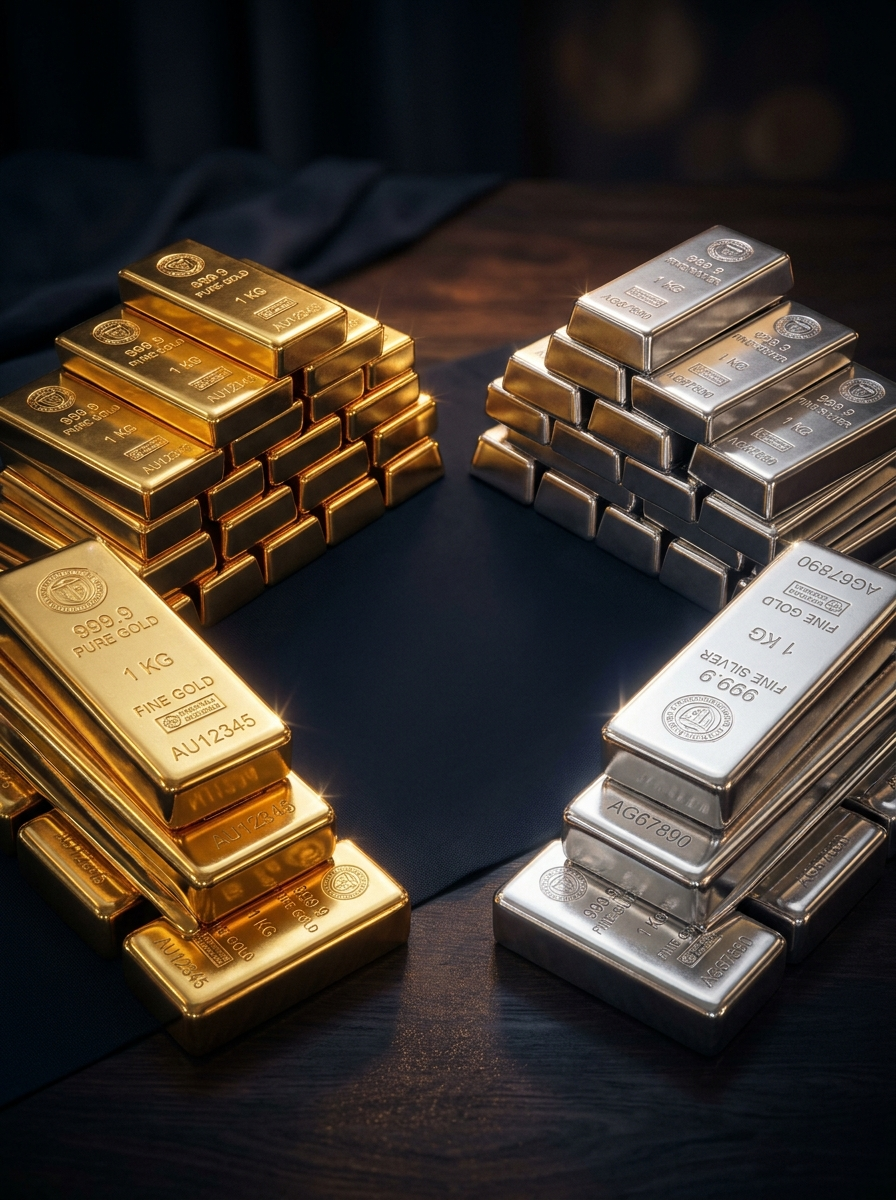
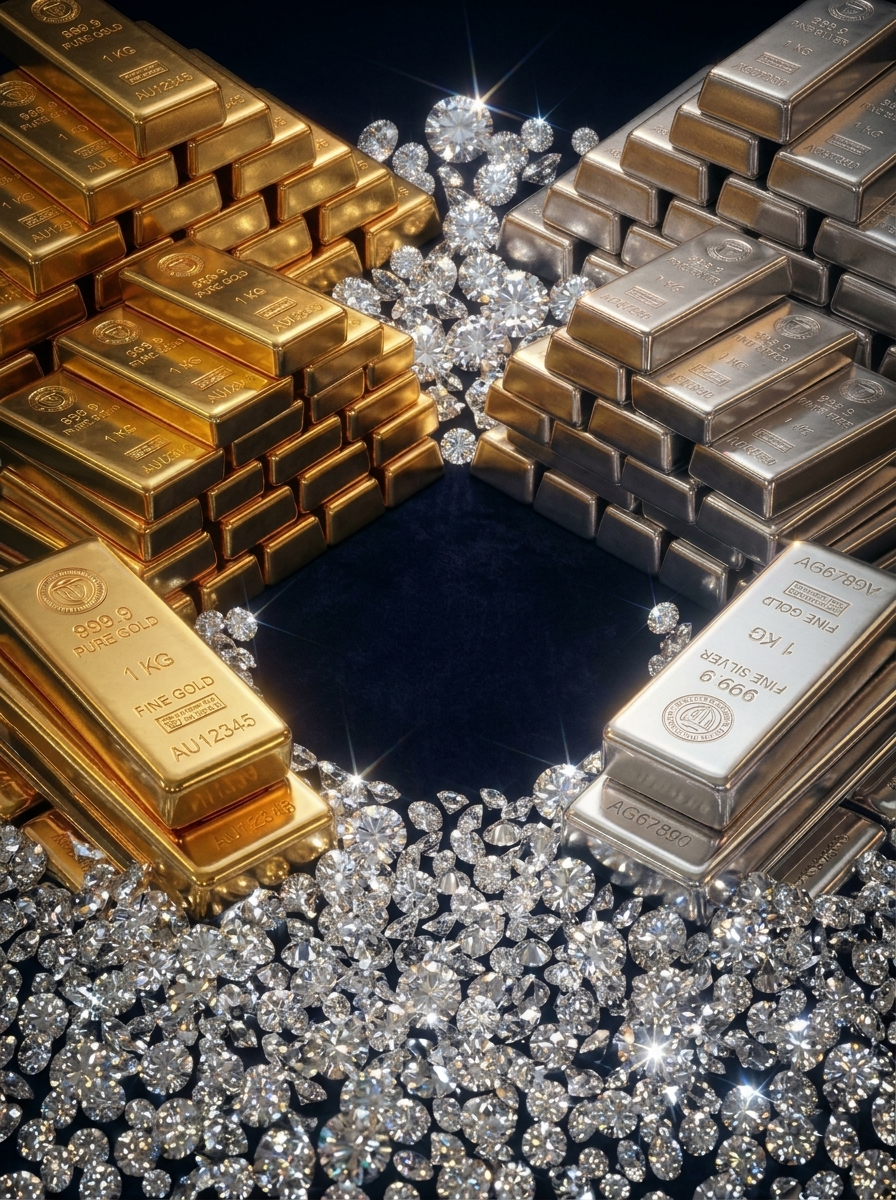
feat: add AuthLayout component and background image for authentication pages

diff --git a/src/layout/AuthLayout.jsx b/src/layout/AuthLayout.jsx
@@ -6,12 +6,12 @@ const AuthLayout = ({ children }) => {
   return (
     <div className="relative p-6 bg-gray-50 z-1 dark:bg-[#050811] sm:p-0">
       <div className="relative flex flex-col justify-center w-full h-screen lg:flex-row bg-white dark:bg-[#070a13] sm:p-0 overflow-hidden">
-        {/* Left Side: Photo with Gold & Silver Bars & Centered Karat360 Branding */}
+        {/* Left Side: Photo with Gold, Silver & Diamonds & Centered Karat360 Branding */}
         <div className="relative hidden w-full h-full lg:w-1/2 lg:flex items-center justify-center overflow-hidden">
           {/* Background image */}
           <img
             src={authBg}
-            alt="Karat360 Gold and Silver Bullion"
+            alt="Karat360 Gold, Silver Bullion and Diamonds"
             className="absolute inset-0 w-full h-full object-cover object-center"
           />
           {/* Dark luxury gradient overlay */}
